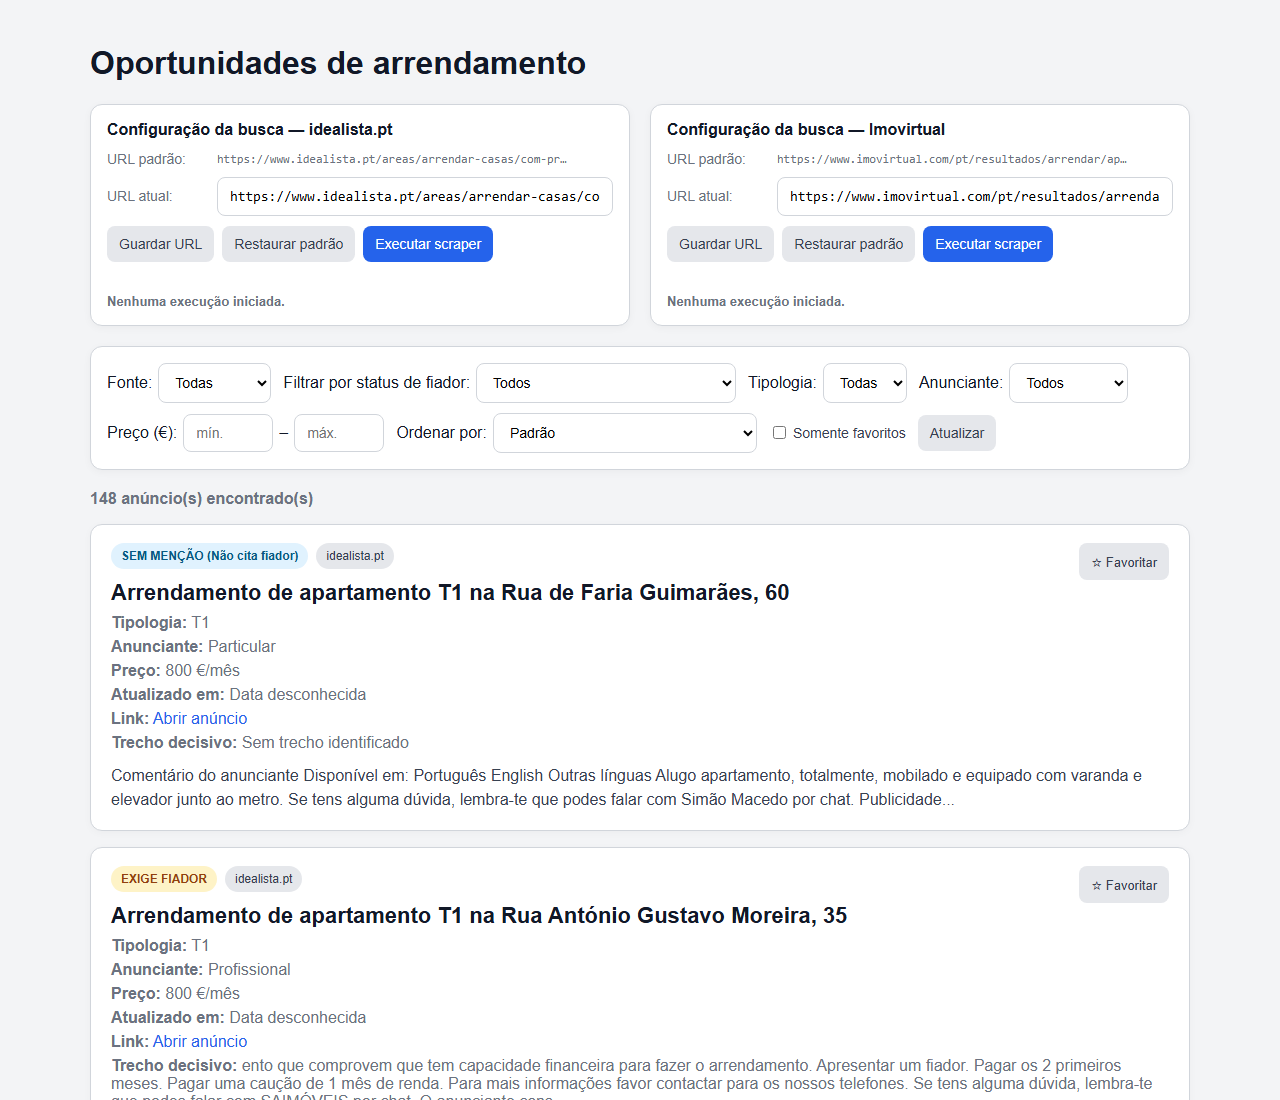
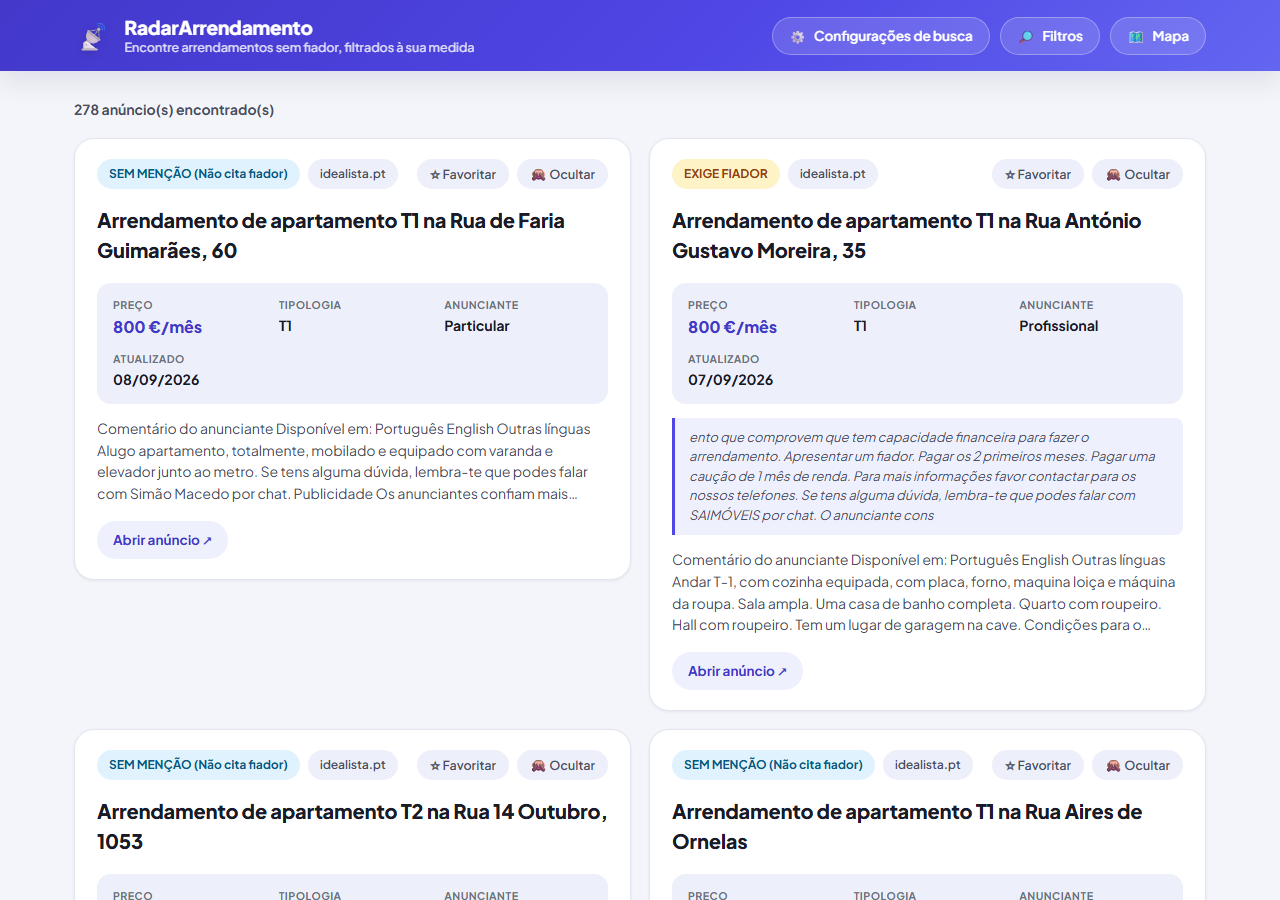
Tidy up project structure and fix a Python compatibility gap
- Move the static concelho/freguesia dataset into reference/, so it
  reads clearly as versioned reference data rather than sitting loose
  among the Python modules (and isn't confused with data/, which is
  runtime-generated and gitignored).
- Add from __future__ import annotations to scraper.py: it already
  used `str | None`-style annotations without it, which would raise a
  TypeError at import time on Python < 3.10 (every other module in the
  project already has this import).
- Round out .gitignore with the usual entries that were missing
  (.env, editor folders, OS cruft) — nothing currently produces them,
  but they're one dependency or one contributor away from mattering.
- Replace the README screenshot, which still showed the pre-redesign
  UI (old header-less layout, no map, no concelho/freguesia filter),
  and note the Python version the `|` type hints require.

diff --git a/divisoes_administrativas.py b/divisoes_administrativas.py
@@ -15,9 +15,9 @@ que cada site expõe é inconsistente:
 
 Em vez de confiar nesse campo, `concelho_da_freguesia` deriva o concelho
 correto a partir da freguesia, usando a divisão administrativa oficial
-pós-reorganização de 2013 (`concelhos_freguesias.json`: 306 concelhos, 3092
-freguesias — bate com o total oficial do país). Gerado a partir de
-https://gist.github.com/tomahock/a6c07dd255d04499d8336237e35a4827
+pós-reorganização de 2013 (`reference/concelhos_freguesias.json`: 306
+concelhos, 3092 freguesias — bate com o total oficial do país). Gerado a
+partir de https://gist.github.com/tomahock/a6c07dd255d04499d8336237e35a4827
 (distritos-concelhos-freguesias-Portugal.json, actualizado 2016-07-12),
 removendo o nível de distrito (não usado por este projeto) e o prefixo
 "União das freguesias de" de cada nome.
@@ -30,7 +30,7 @@ import unicodedata
 from pathlib import Path
 from typing import Optional
 
-_ARQUIVO = Path(__file__).resolve().parent / "concelhos_freguesias.json"
+_ARQUIVO = Path(__file__).resolve().parent / "reference" / "concelhos_freguesias.json"
 
 with _ARQUIVO.open("r", encoding="utf-8") as _f:
     CONCELHOS_FREGUESIAS: dict[str, list[str]] = json.load(_f)

diff --git a/scraper.py b/scraper.py
@@ -1,3 +1,5 @@
+from __future__ import annotations
+
 import asyncio
 import json
 import random

diff --git a/README.md b/README.md
@@ -31,9 +31,10 @@ scraper.py                -> scraper do idealista.pt (navegação + extração e
 scraper_imovirtual.py     -> scraper do Imovirtual (navegação + extração específica do site)
 verificador_disponibilidade.py -> revisita anúncios já coletados: remove os que saíram do ar e preenche localização/descrição que faltem
 geolocalizacao.py         -> geocodificação (Nominatim/OpenStreetMap) usada só pelo idealista, com cache em disco
-divisoes_administrativas.py -> concelho/freguesia oficiais de Portugal (concelhos_freguesias.json), fonte confiável pro concelho de cada anúncio
+divisoes_administrativas.py -> concelho/freguesia oficiais de Portugal (reference/concelhos_freguesias.json), fonte confiável pro concelho de cada anúncio
 storage.py                -> persistência em JSON (config e resultados por fonte; histórico, favoritos e ocultos partilhados)
 static/                   -> interface (index.html, app.js, styles.css)
+reference/                -> dados estáticos versionados (concelhos_freguesias.json) — não confundir com data/, gerado em runtime
 data/                     -> ficheiros gerados em runtime (não versionados)
 tests/                    -> testes unitários e de integração (pytest)
 
@@ -68,6 +69,8 @@ Adicionar uma nova fonte (ex.: OLX) significa: uma entrada em `storage.FONTES`, 
 `<fonte>` é `idealista` ou `imovirtual`.
 
 ## Setup
+
+Requer Python 3.10+.
 
 ```bash
 python -m venv .venv
